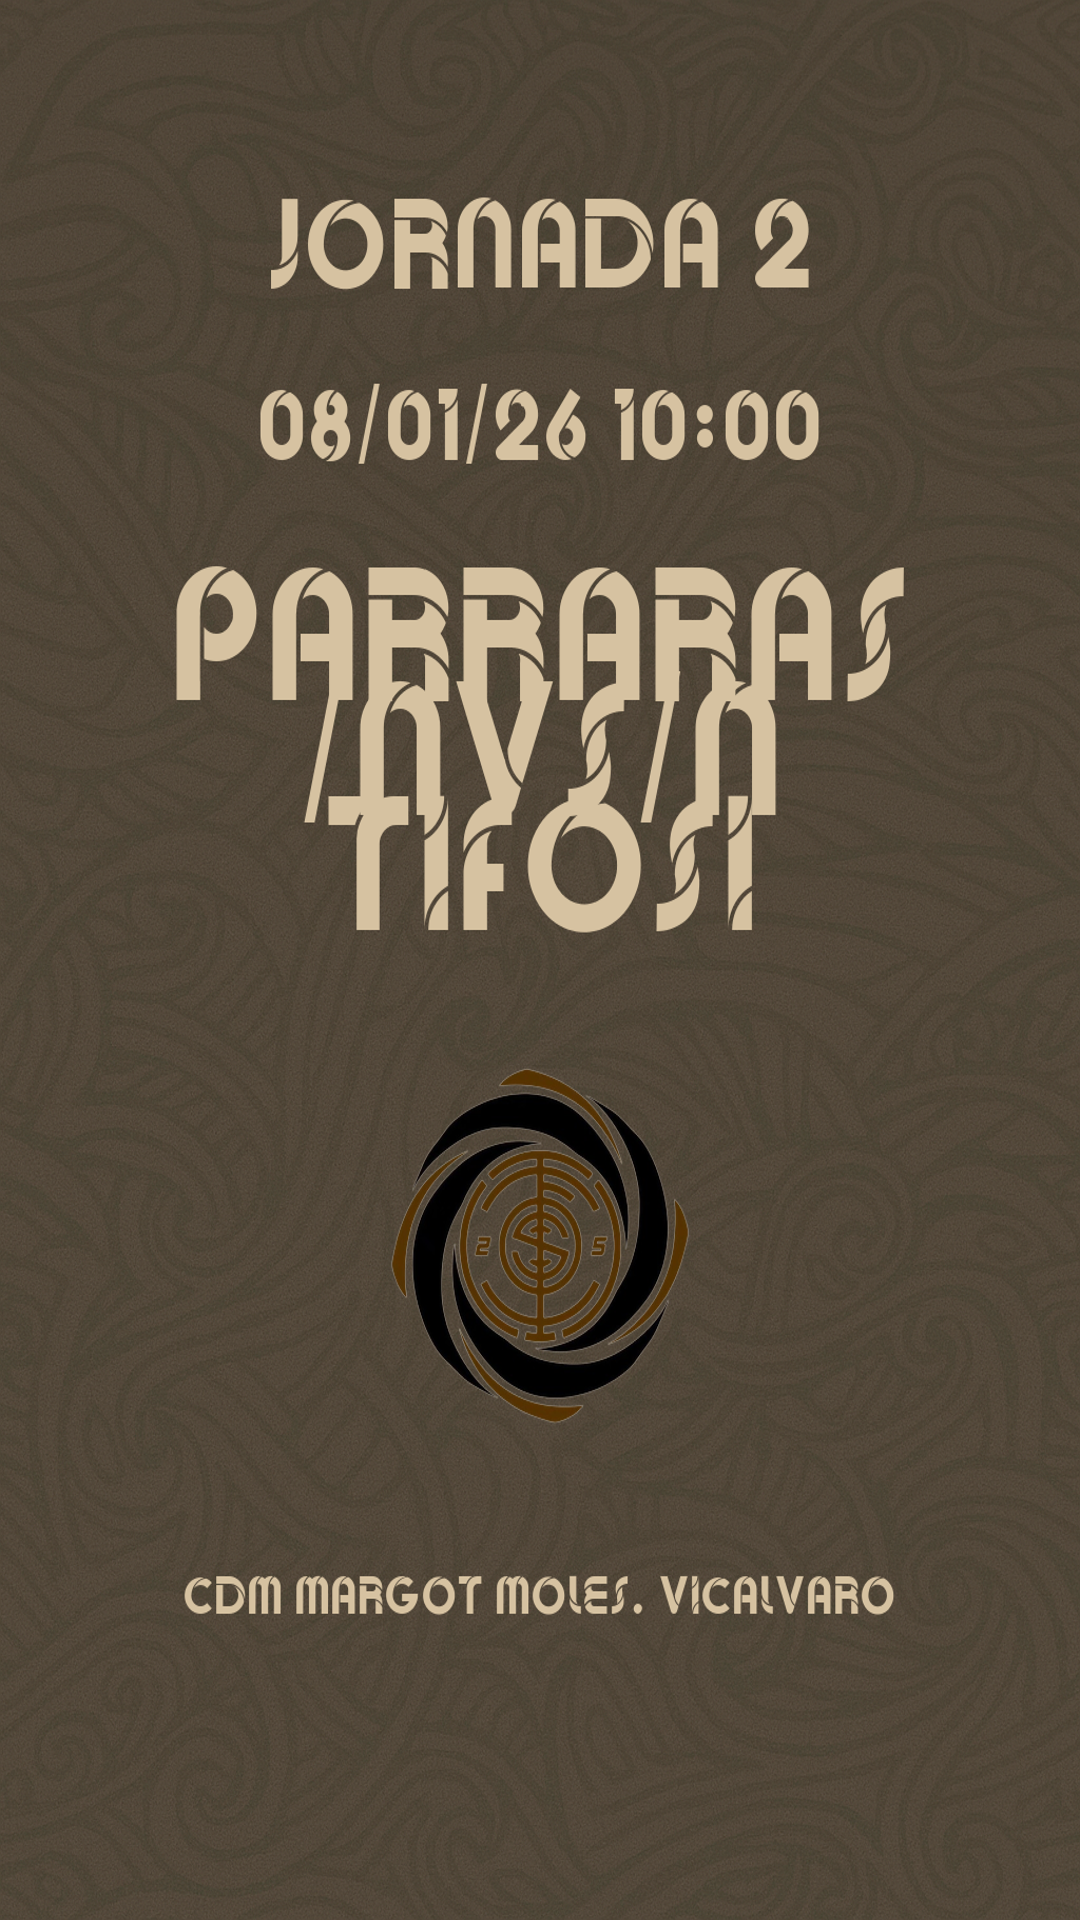
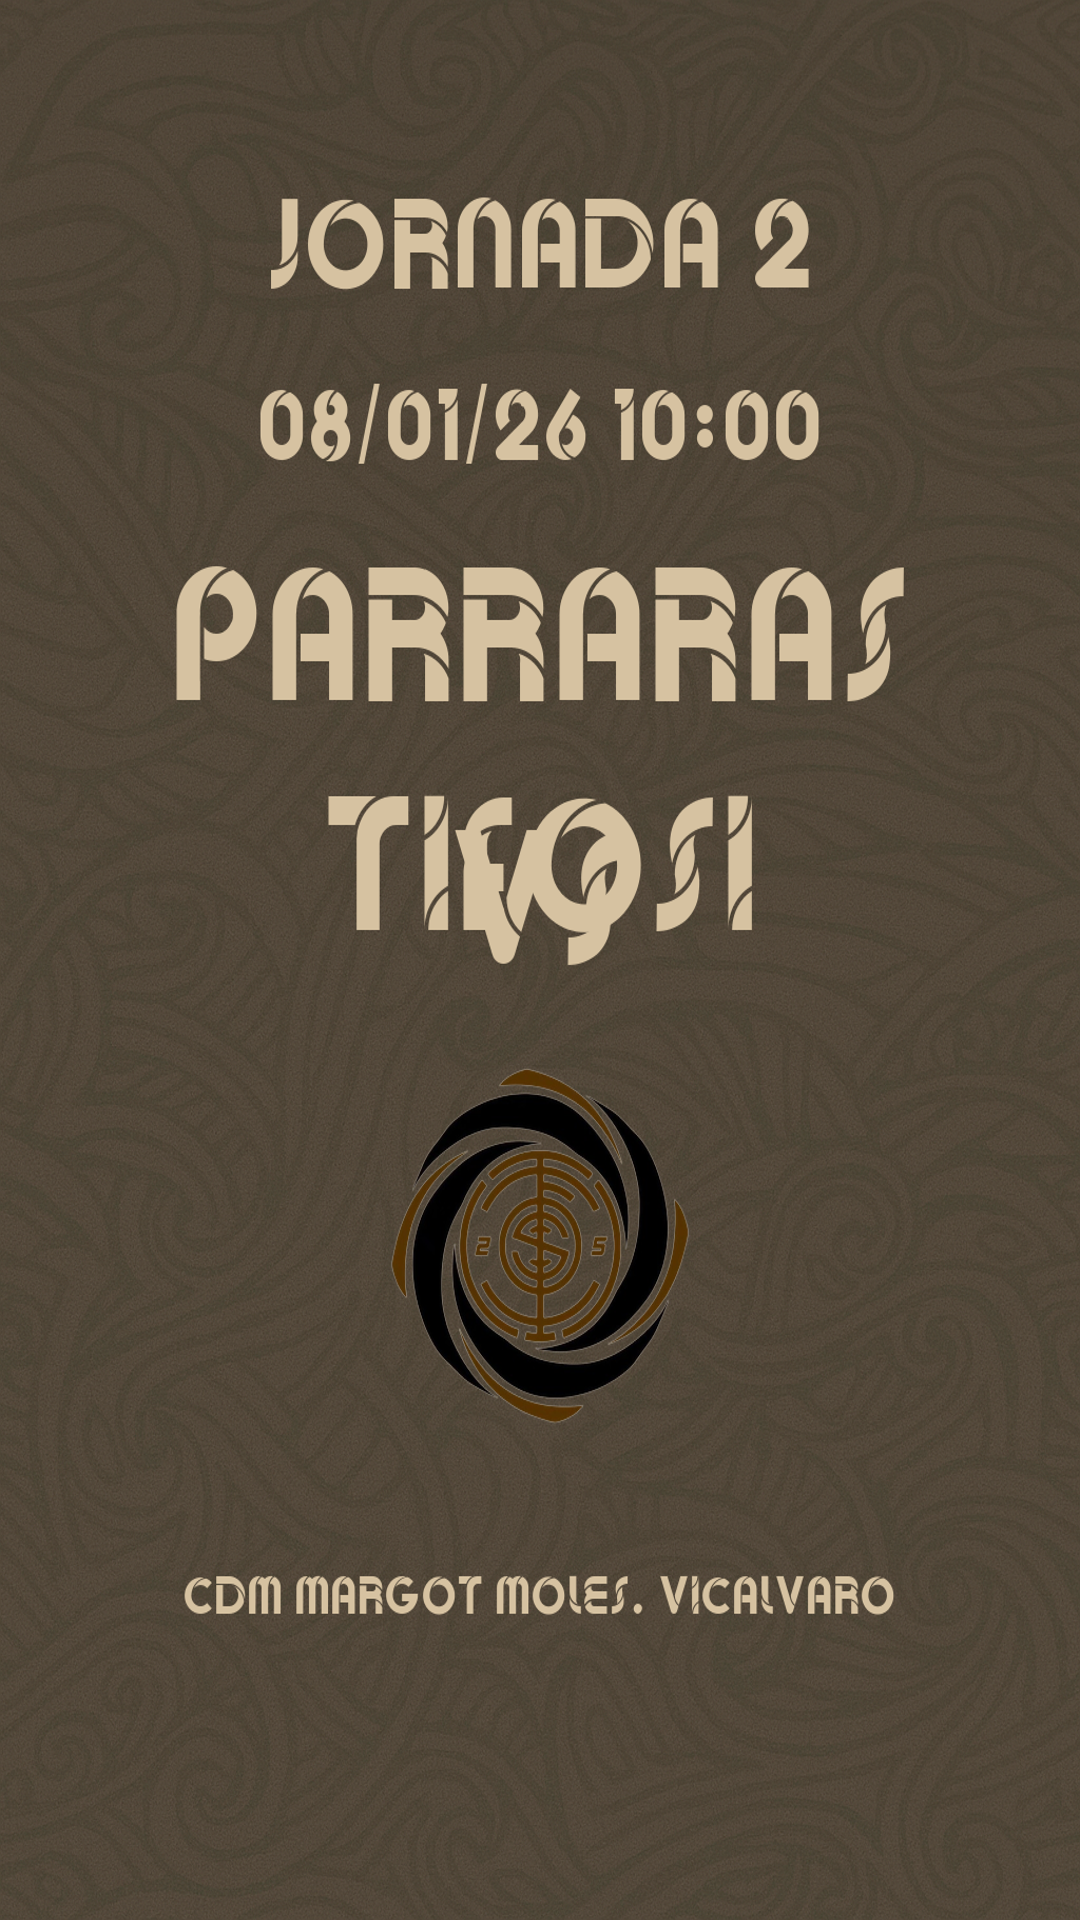
update web

Changed region(s): [[0.275, 0.3438, 0.7333, 0.5]]

diff --git a/image_generator.py b/image_generator.py
@@ -341,7 +341,7 @@ def generar_proximo(data):
     # Equipos en líneas separadas centradas
     spacing = int(alto * 0.06)
     center_text(draw, img, equipo_local.upper(), font_equipo, y_equipos - spacing, COLOR_BEIGE)
-    center_text(draw, img, "/nVS/n", font_equipo, y_equipos, COLOR_BEIGE)
+    center_text(draw, img, "\nVS\n", font_equipo, y_equipos, COLOR_BEIGE)
     center_text(draw, img, equipo_visitante.upper(), font_equipo, y_equipos + spacing, COLOR_BEIGE)
 
     # =========================
